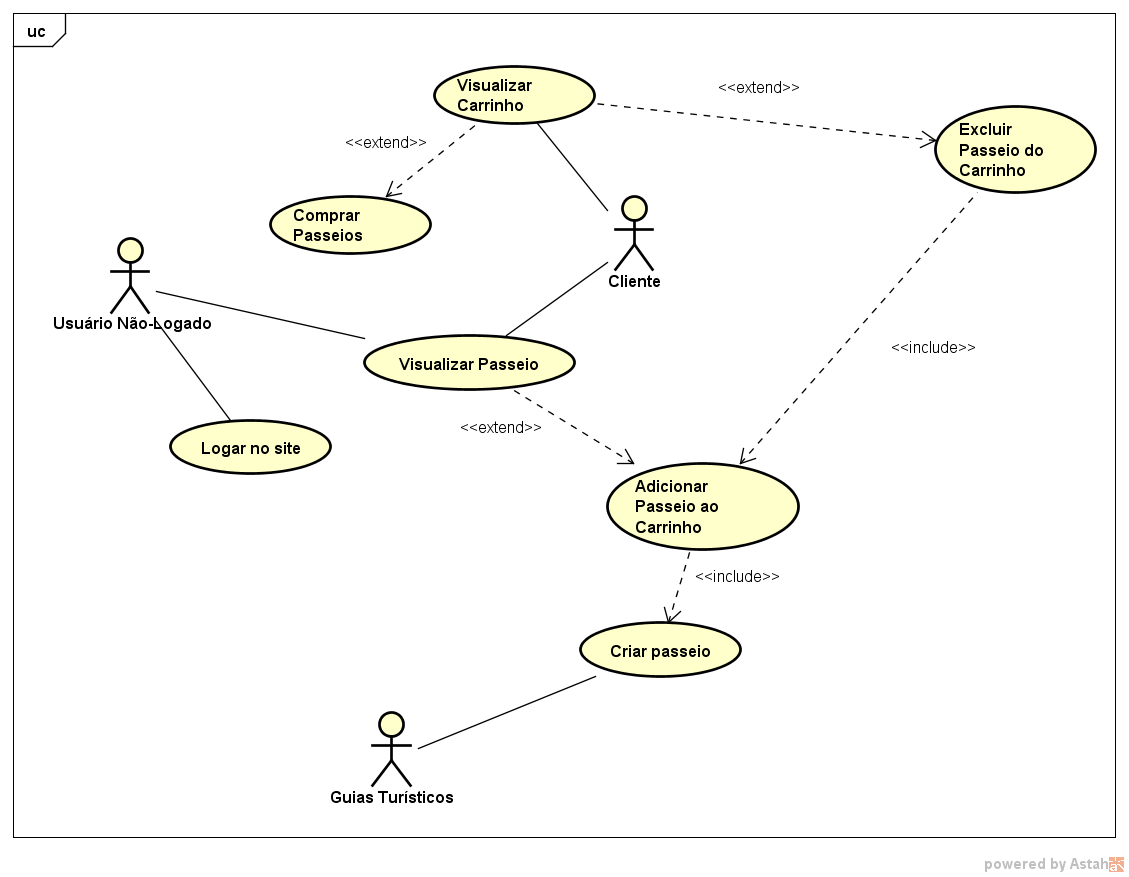
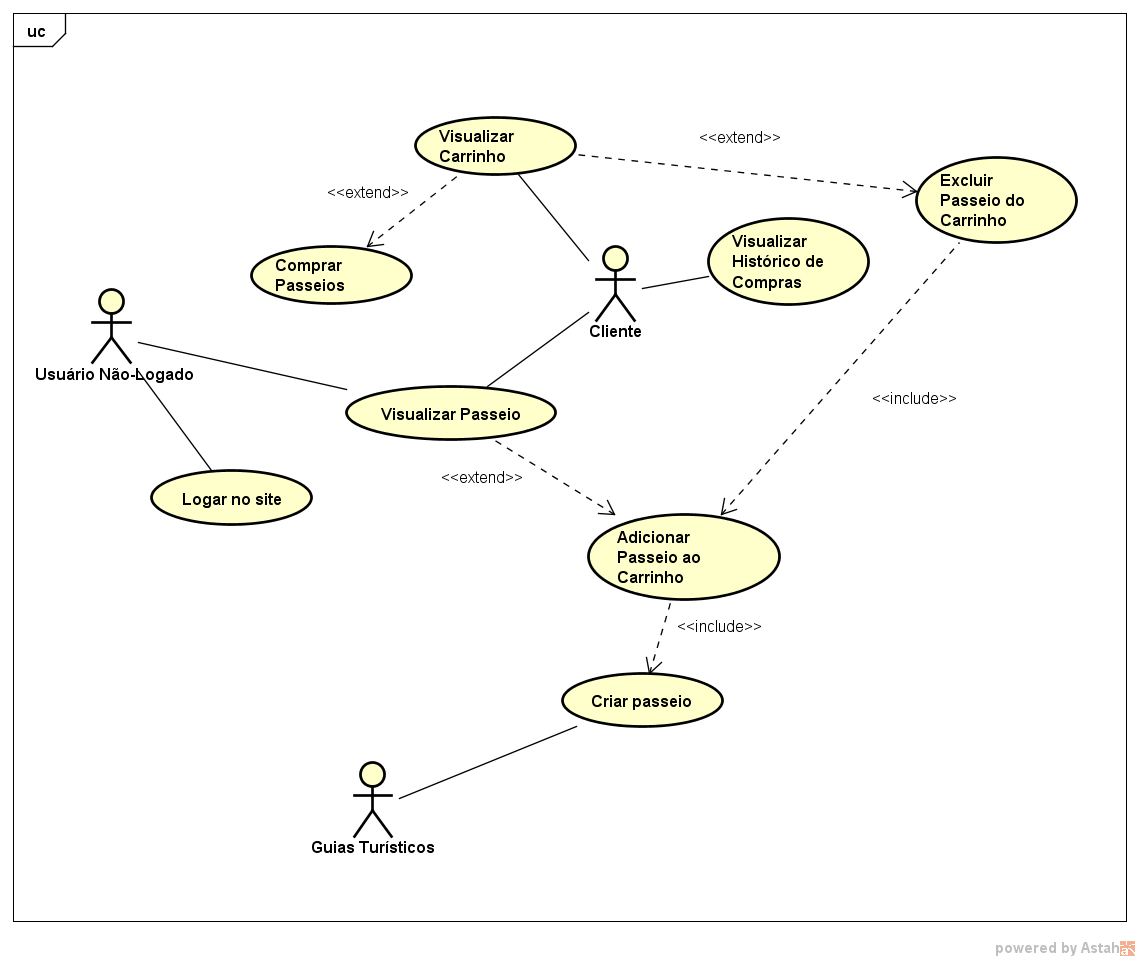
Final Stage, i think

diff --git a/public/css/categorias.css b/public/css/categorias.css
@@ -3,9 +3,51 @@ input::-webkit-inner-spin-button {
   -webkit-appearance: none;
   margin: 0;
 }
-fieldset.categorias{
+.categorias{
+  display: flex;
   background-color: #ffffff;
+  align-self: center;
 }
-fieldset.subCategoria{
+.selecao{
+  display: flex;
+  flex-direction: column;
+  align-items: center;
+  gap: 15px;
+
+}
+.subCategoria{
+  display: flex;
+  width: 100%;
+  justify-content: space-between;
+  align-items: center;
+  gap: 15px;
+  border: 0;
   background-color: #fdfafa;
+  box-shadow: 0px 0px 2px rgba(90, 90, 90, 0.322);
+  padding-top: 30px;
+}
+
+.filtroInput{
+  appearance: none;
+  border: 0;
+  border-radius: 5px;
+  border-color: #bbbbbb;
+  padding: 4px;
+  box-shadow: 0px 0px 2px rgb(0, 0, 0);
+}
+
+#filtrarButton{
+  appearance: none;
+  align-self: center;
+  border-radius: 4px;
+  border:0;
+  box-shadow: 0px 0px 2px rgb(0, 0, 0);
+  background-color: #F4877A;
+  padding: 10px;
+  font-weight: 700;
+  font-size: 15px;
+  align-self: center;
+}
+#palavrasChaves{
+  width: 100%;
 }

diff --git a/source/categorias2.php b/source/categorias2.php
@@ -38,6 +38,7 @@ if (isset($_SESSION['clienteCPF'])){
             <a href=\"./categorias.php\" class=\"linkNav\">Categorias</a>
             <a href=\"./carrinho.php\" class=\"linkNav\">Carrinho$numItensCarrinho</a>
             <a href=\"./quemSomos.php\" class=\"linkNav\">Quem Somos</a>
+            <a href=\"./historico.php\" class=\"linkNav\">Histórico</a>
             <a href=\"./../scripts/sair.php\" class=\"linkNav\">Sair</a>
         </nav>
         </header>";
@@ -82,38 +83,46 @@ echo    "<section>
             <h1 class=\"inicio\">
                 Categorias
             </h1>
-            <fieldset class=\"categorias\">
-                <form class=\"selecao\" method=\"post\" action=\"../source/categorias2.php\">
-                    <fieldset class=\"subCategoria\">
-                        <legend>Preço</legend>
-                        <input type=\"number\" name=\"minPreco\" placeholder=\"Min\" min=\"0\">
-                        <input type=\"number\" name=\"maxPreco\" placeholder=\"Max\" min=\"0\">
-                    </fieldset>
 
-                    <fieldset class=\"subCategoria\">
-                        <legend>Ranking</legend>
-                        <input type=\"number\" name=\"minRanking\" placeholder=\"Min\" min=\"0\" max=\"10\">
-                        <input type=\"number\" name=\"maxRanking\" placeholder=\"Max\" min=\"0\" max=\"10\">
-                    </fieldset>
-
-                    <fieldset class=\"subCategoria\">
-                        <legend>Data</legend>
-                        <label>De:</label>
-                        <input type=\"date\" name=\"minData\" placeholder=\"Min\">
-                        <label>Até:</lable>
-                        <input type=\"date\" name=\"maxData\" placeholder=\"Max\">
-                    </fieldset>
-
-                    <fieldset class=\"subCategoria\">
-                        <legend>Palavras Chaves</legend>
-                        <input type=\"text\" name=\"palavraChave\" placeholder=\"Digite Aqui\">
-                    </fieldset>
-
-                    <input type=\"submit\" value=\"Filtrar\">
-                </form>
-            </fieldset><br>
 
             <div class=\"secao\">
+
+                            <div class=\"anuncio\">
+                    <h2>Filtros:</h2>
+                    <h3>
+                </h3>
+                </div>
+                <div class=\"categorias\">
+                    <form class=\"selecao\" method=\"post\" action=\"../source/categorias2.php\">
+                        <fieldset class=\"subCategoria\">
+                            <legend>Preço</legend>
+                            <input type=\"number\" name=\"minPreco\" placeholder=\"Mínimo\" min=\"0\" class=\"filtroInput\">
+                            <input type=\"number\" name=\"maxPreco\" placeholder=\"Máximo\" class=\"filtroInput\">
+                        </fieldset>
+
+                        <fieldset class=\"subCategoria\">
+                            <legend>Ranking</legend>
+                            <input type=\"number\" name=\"minRanking\" placeholder=\"Mínimo\" class=\"filtroInput\">
+                            <input type=\"number\" name=\"maxRanking\" placeholder=\"Máximo\" class=\"filtroInput\">
+                        </fieldset>
+
+                        <fieldset class=\"subCategoria\">
+                            <legend>Data</legend>
+                            <label>De:</label>
+                            <input type=\"date\" name=\"minData\" placeholder=\"Mínimo\" class=\"filtroInput\">
+                            <label>Até:</lable>
+                            <input type=\"date\" name=\"maxData\" placeholder=\"Máximo\" class=\"filtroInput\">
+                        </fieldset>
+
+                        <fieldset class=\"subCategoria\">
+                            <legend>Palavras Chaves</legend>
+                            <input type=\"text\" name=\"palavraChave\" placeholder=\"Digite Aqui\" class=\"filtroInput\" id=\"palavrasChaves\">
+                        </fieldset>
+
+                        <input type=\"submit\" value=\"Filtrar\" id=\"filtrarButton\">
+                    </form>
+                </div>
+
                 <div class=\"anuncio\">
                     <h2>Pacotes:</h2>
                     <h3>

diff --git a/source/categorias.php b/source/categorias.php
@@ -38,6 +38,7 @@ if (isset($_SESSION['clienteCPF'])){
             <a href=\"./categorias.php\" class=\"linkNav\">Categorias</a>
             <a href=\"./carrinho.php\" class=\"linkNav\">Carrinho$numItensCarrinho</a>
             <a href=\"./quemSomos.php\" class=\"linkNav\">Quem Somos</a>
+            <a href=\"./historico.php\" class=\"linkNav\">Histórico</a>
             <a href=\"./../scripts/sair.php\" class=\"linkNav\">Sair</a>
         </nav>
         </header>";
@@ -82,34 +83,45 @@ echo    "<section>
             <h1 class=\"inicio\">
                 Categorias
             </h1>
-            <fieldset class=\"categorias\">
-            <form class=\"selecao\" method=\"post\" action=\"../source/categorias2.php\">
-            <fieldset class=\"subCategoria\">
-            <legend>Preço</legend>
-            <input type=\"number\" name=\"minPreco\" placeholder=\"Min\" min=\"0\">
-            <input type=\"number\" name=\"maxPreco\" placeholder=\"Max\">
-            </fieldset>
-            <fieldset class=\"subCategoria\">
-            <legend>Ranking</legend>
-            <input type=\"number\" name=\"minRanking\" placeholder=\"Min\">
-            <input type=\"number\" name=\"maxRanking\" placeholder=\"Max\">
-            </fieldset>
-            <fieldset class=\"subCategoria\">
-            <legend>Data</legend>
-            <label>De:</label>
-            <input type=\"date\" name=\"minData\" placeholder=\"Min\">
-            <label>Até:</lable>
-            <input type=\"date\" name=\"maxData\" placeholder=\"Max\">
-            </fieldset>
-            <fieldset class=\"subCategoria\">
-            <legend>Palavras Chaves</legend>
-            <input type=\"text\" name=\"palavraChave\" placeholder=\"Digite Aqui\">
-            </fieldset>
-            <input type=\"submit\" value=\"Filtrar\">
-            </form>
-            </fieldset><br>
 
             <div class=\"secao\">
+
+                            <div class=\"anuncio\">
+                    <h2>Filtros:</h2>
+                    <h3>
+                </h3>
+                </div>
+                <div class=\"categorias\">
+                    <form class=\"selecao\" method=\"post\" action=\"../source/categorias2.php\">
+                        <fieldset class=\"subCategoria\">
+                            <legend>Preço</legend>
+                            <input type=\"number\" name=\"minPreco\" placeholder=\"Mínimo\" min=\"0\" class=\"filtroInput\">
+                            <input type=\"number\" name=\"maxPreco\" placeholder=\"Máximo\" class=\"filtroInput\">
+                        </fieldset>
+
+                        <fieldset class=\"subCategoria\">
+                            <legend>Ranking</legend>
+                            <input type=\"number\" name=\"minRanking\" placeholder=\"Mínimo\" class=\"filtroInput\">
+                            <input type=\"number\" name=\"maxRanking\" placeholder=\"Máximo\" class=\"filtroInput\">
+                        </fieldset>
+
+                        <fieldset class=\"subCategoria\">
+                            <legend>Data</legend>
+                            <label>De:</label>
+                            <input type=\"date\" name=\"minData\" placeholder=\"Mínimo\" class=\"filtroInput\">
+                            <label>Até:</lable>
+                            <input type=\"date\" name=\"maxData\" placeholder=\"Máximo\" class=\"filtroInput\">
+                        </fieldset>
+
+                        <fieldset class=\"subCategoria\">
+                            <legend>Palavras Chaves</legend>
+                            <input type=\"text\" name=\"palavraChave\" placeholder=\"Digite Aqui\" class=\"filtroInput\" id=\"palavrasChaves\">
+                        </fieldset>
+
+                        <input type=\"submit\" value=\"Filtrar\" id=\"filtrarButton\">
+                    </form>
+                </div>
+
                 <div class=\"anuncio\">
                     <h2>Pacotes:</h2>
                     <h3>

diff --git a/scripts/criarCardsHistorico.php b/scripts/criarCardsHistorico.php
@@ -8,15 +8,17 @@ $url = explode("/source", $_SERVER['REQUEST_URI'])[0];
 if (isset($_SESSION['clienteCPF'])){
     $clienteCPF = $_SESSION['clienteCPF'];
     
-    function getCard($imgSource, $altImg, $nome, $zIndex, $ranking, $cardDir, $valor) {
+    function getCard($imgSource, $altImg, $nome, $zIndex, $ranking, $cardDir, $valor, $dataCompra) {
         global $url;
         $cardTemplate = "
         <div class=\"cardCarrinho\">
             <div id=\"dadosPasseio\" onclick=\"window.location.href='" . $url . "/source/passeios/mostraPasseio.php/?cardDir=" . $cardDir . "'\">" .
                 "<img src=\"../public/imagens/imgPasseios/$imgSource\" alt=\"$altImg\" class=\"imgPasseio\">
                 <div class=\"nomeCard\">$nome</div>
-                <div>Valor:<b>$valor</b></div>
-            </div>";
+                <div>Valor: <b>$valor</b></div>
+                <div>Data da Compra: <b>$dataCompra</b></div>
+            </div>
+        </div>";
         return $cardTemplate;
     }
 
@@ -24,7 +26,7 @@ if (isset($_SESSION['clienteCPF'])){
         global $conn;
         global $clienteCPF;
 
-        $cards = $conn->query("select Carrinho.idPasseio, horaInicio, dataInicio, horaFinal, dataFinal, nome, ranking, valor, imgSource, altImg, cardDir, descricao from Passeio, Carrinho where Passeio.idPasseio = Carrinho.idPasseio and clienteCPF = $clienteCPF");
+        $cards = $conn->query("select Comprar.idPasseio, Comprar.dataCompra, horaInicio, dataInicio, horaFinal, dataFinal, nome, ranking, valor, imgSource, altImg, cardDir, descricao from Passeio, Comprar where Passeio.idPasseio = Comprar.idPasseio and clienteCPF = $clienteCPF");
 
         $cardsArray = [];
         while ($row = $cards->fetch_assoc()) {
@@ -33,21 +35,23 @@ if (isset($_SESSION['clienteCPF'])){
         return $cardsArray;
     }
 
-    $zIndex = intval($conn-> query("select count(*) as numCards from carrinho where clienteCPF = $clienteCPF;")->fetch_assoc());
+    $zIndex = intval($conn-> query("select count(*) as numCards from Comprar where clienteCPF = $clienteCPF;")->fetch_assoc());
     $cardsArray = getCardsDataFromDB();
     $cardData = [];
 
     foreach ($cardsArray as $card) {
-        array_push($cardData, getCard($card['imgSource'], $card['altImg'], $card['nome'], $zIndex--, $card['ranking'], $card['cardDir'], $card['valor']));
+        $data = explode("-", $card['dataCompra']);
+        $data = $data[2] . "/" . $data[1] . "/" . $data[0];
+        array_push($cardData, getCard($card['imgSource'], $card['altImg'], $card['nome'], $zIndex--, $card['ranking'], $card['cardDir'], $card['valor'], $data));
     }
 
 } else if (isset($_SESSION['guiaCPF'])){
     $url = explode("/scripts", $_SERVER['REQUEST_URI'])[0];
-    header("location: $url/../login.php/?carrinho=guia");
+    header("location: $url/../login.php/?historico=guia");
     exit();
 } else {
     $url = explode("/scripts", $_SERVER['REQUEST_URI'])[0];
-    header("location: $url/../login.php/?carrinho=tryEntry");
+    header("location: $url/../login.php/?historico=tryEntry");
     exit();
 }
 

diff --git a/source/login.php b/source/login.php
@@ -13,14 +13,24 @@ $alertCar = "";
 if (isset($queryParameters['carrinho']) && $queryParameters['carrinho'] == "false" && !(isset($_POST['usuarioEmail']) && isset($_POST['usuarioSenha']) && isset($_POST['usuarioSenhaConf']))) {
     $dirCar = "/..";
     $dirCar2 = "../";
-    $alertCar = "<script>alert('Faça login para adicionar passeios ao carrinho.')</script>";
+    $alertCar = "<script>alert('Faça login como Cliente para adicionar passeios ao carrinho.')</script>";
 }
 if (isset($queryParameters['carrinho']) && $queryParameters['carrinho'] == "tryEntry" && !(isset($_POST['usuarioEmail']) && isset($_POST['usuarioSenha']) && isset($_POST['usuarioSenhaConf']))) {
     $dirCar = "/..";
     $dirCar2 = "../";
-    $alertCar = "<script>alert('Faça login para acessar o carrinho.')</script>";
+    $alertCar = "<script>alert('Faça login como Cliente para acessar o carrinho.')</script>";
 }
 if (isset($queryParameters['carrinho']) && $queryParameters['carrinho'] == "guia" && !(isset($_POST['usuarioEmail']) && isset($_POST['usuarioSenha']) && isset($_POST['usuarioSenhaConf']))) {
+    $dirCar = "/..";
+    $dirCar2 = "../";
+    $alertCar = "<script>alert('Guias não podem comprar passeios.')</script>";
+}
+if (isset($queryParameters['historico']) && $queryParameters['historico'] == "tryEntry" && !(isset($_POST['usuarioEmail']) && isset($_POST['usuarioSenha']) && isset($_POST['usuarioSenhaConf']))) {
+    $dirCar = "/..";
+    $dirCar2 = "../";
+    $alertCar = "<script>alert('Faça login como Cliente para acessar o histórico.')</script>";
+}
+if (isset($queryParameters['historico']) && $queryParameters['historico'] == "guia" && !(isset($_POST['usuarioEmail']) && isset($_POST['usuarioSenha']) && isset($_POST['usuarioSenhaConf']))) {
     $dirCar = "/..";
     $dirCar2 = "../";
     $alertCar = "<script>alert('Guias não podem comprar passeios.')</script>";
@@ -61,6 +71,7 @@ echo "
                 <a href=\".$dirCar/categorias.php\" class=\"linkNav\">Categorias</a>
                 <a href=\".$dirCar/carrinho.php\" class=\"linkNav\">Carrinho$numItensCarrinho</a>
                 <a href=\".$dirCar/quemSomos.php\" class=\"linkNav\">Quem Somos</a>
+                <a href=\".$dirCar/historico.php\" class=\"linkNav\">Histórico</a>
                 <a href=\".$dirCar/../scripts/sair.php\" class=\"linkNav\">Sair</a>
             </nav>
             </header>";

diff --git a/scripts/criarCardsCarrinho.php b/scripts/criarCardsCarrinho.php
@@ -15,7 +15,7 @@ if (isset($_SESSION['clienteCPF'])){
             <div id=\"dadosPasseio\" onclick=\"window.location.href='" . $url . "/source/passeios/mostraPasseio.php/?cardDir=" . $cardDir . "'\">" .
                 "<img src=\"../public/imagens/imgPasseios/$imgSource\" alt=\"$altImg\" class=\"imgPasseio\">
                 <div class=\"nomeCard\">$nome</div>
-                <div>Valor:<b>$valor</b></div>
+                <div>Valor: <b>$valor</b></div>
             </div>" . 
             "<button class=\"retirarDoCarrinho\" onclick=\"window.location.href='" . $url . "/scripts/delCarrinho.php/?cardDir=" . $cardDir . "'\"" . ">
                 <svg xmlns=\"http://www.w3.org/2000/svg\" width=\"16\" height=\"16\" fill=\"currentColor\" class=\"bi bi-trash\" viewBox=\"0 0 16 16\">

diff --git a/source/criarConta.php b/source/criarConta.php
@@ -58,6 +58,7 @@ echo "
                 <a href=\".$dirCar/categorias.php\" class=\"linkNav\">Categorias</a>
                 <a href=\".$dirCar/carrinho.php\" class=\"linkNav\">Carrinho$numItensCarrinho</a>
                 <a href=\".$dirCar/quemSomos.php\" class=\"linkNav\">Quem Somos</a>
+                <a href=\".$dirCar/historico.php\" class=\"linkNav\">Histórico</a>
                 <a href=\".$dirCar/../scripts/sair.php\" class=\"linkNav\">Sair</a>
             </nav>
             </header>";

diff --git a/source/passeios/mostraPasseio.php b/source/passeios/mostraPasseio.php
@@ -59,6 +59,7 @@ echo "
                 <a href=\"./../../categorias.php\" class=\"linkNav\">Categorias</a>
                 <a href=\"./../../carrinho.php\" class=\"linkNav\">Carrinho$numItensCarrinho</a>
                 <a href=\"./../../quemSomos.php\" class=\"linkNav\">Quem Somos</a>
+                <a href=\"./historico.php\" class=\"linkNav\">Histórico</a>
                 <a href=\"./../../../scripts/sair.php\" class=\"linkNav\">Sair</a>
             </nav>
             </header>";

diff --git a/source/criarPasseio.php b/source/criarPasseio.php
@@ -52,6 +52,7 @@ if (isset($_SESSION['clienteCPF'])){
             <a href=\"./carrinho.php\" class=\"linkNav\">Carrinho$numItensCarrinho</a>
             <a href=\"./criarPasseio.php\" class=\"criarPasseioNav\">Criar Passeio</a>
             <a href=\"./quemSomos.php\" class=\"linkNav\">Quem Somos</a>
+            <a href=\"./historico.php\" class=\"linkNav\">Histórico</a>
             <a href=\"./../scripts/sair.php\" class=\"linkNav\">Sair</a>
         </nav>
         </header>";

diff --git a/source/carrinho.php b/source/carrinho.php
@@ -37,6 +37,7 @@ echo "
                 <a href=\"./categorias.php\" class=\"linkNav\">Categorias</a>
                 <a href=\"./carrinho.php\" class=\"linkNav\">Carrinho<?php echo $numItensCarrinho?></a>
                 <a href=\"./quemSomos.php\" class=\"linkNav\">Quem Somos</a>
+                <a href=\"./historico.php\" class=\"linkNav\">Histórico</a>
                 <a href=\"./../scripts/sair.php\" class=\"linkNav\">Sair</a>
             </nav>
             </header>";

diff --git a/source/historico.php b/source/historico.php
@@ -1,8 +1,8 @@
 <?php
 include '../enviroment.php';
 include '../banco/banco.php';
-include '../scripts/checkHistorico.php';
 include '../scripts/checkCarrinho.php';
+include '../scripts/checkHistorico.php';
 include '../scripts/criarCardsHistorico.php';
 
 if ($numItensHistoricoAux > 0){
@@ -79,7 +79,7 @@ echo "
 
 echo "<section>
             <h1 class=\"inicio\">
-                Carrinho
+                Histórico
             </h1>
 
             <div class=\"secao\">

diff --git a/source/home.php b/source/home.php
@@ -39,6 +39,7 @@ if (isset($_SESSION['clienteCPF'])){
             <a href=\"./categorias.php\" class=\"linkNav\">Categorias</a>
             <a href=\"./carrinho.php\" class=\"linkNav\">Carrinho$numItensCarrinho</a>
             <a href=\"./quemSomos.php\" class=\"linkNav\">Quem Somos</a>
+            <a href=\"./historico.php\" class=\"linkNav\">Histórico</a>
             <a href=\"./../scripts/sair.php\" class=\"linkNav\">Sair</a>
         </nav>
         </header>";
